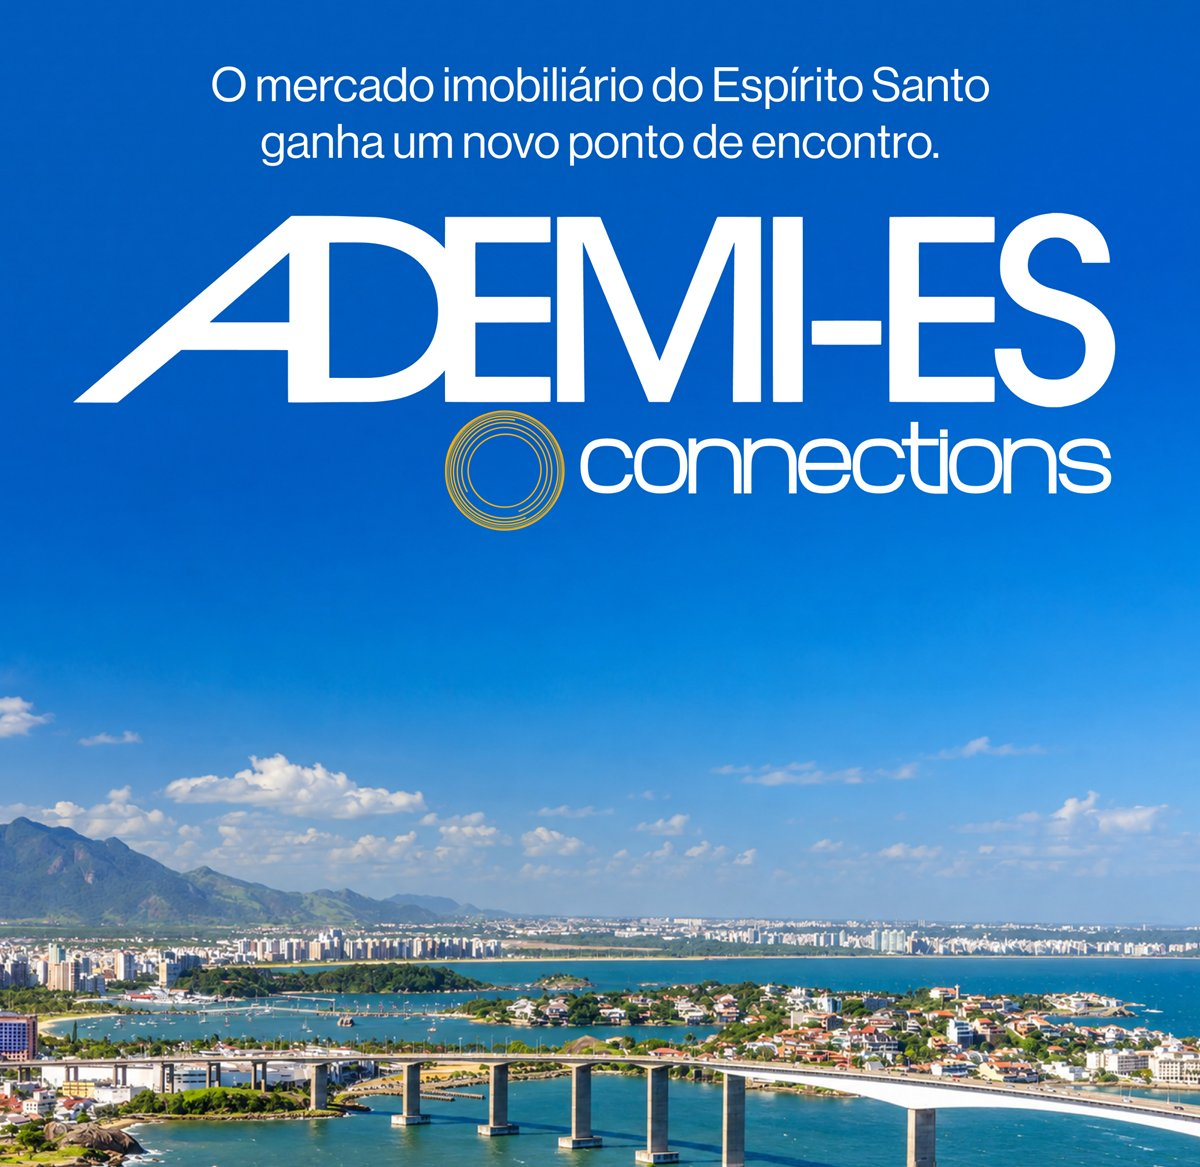
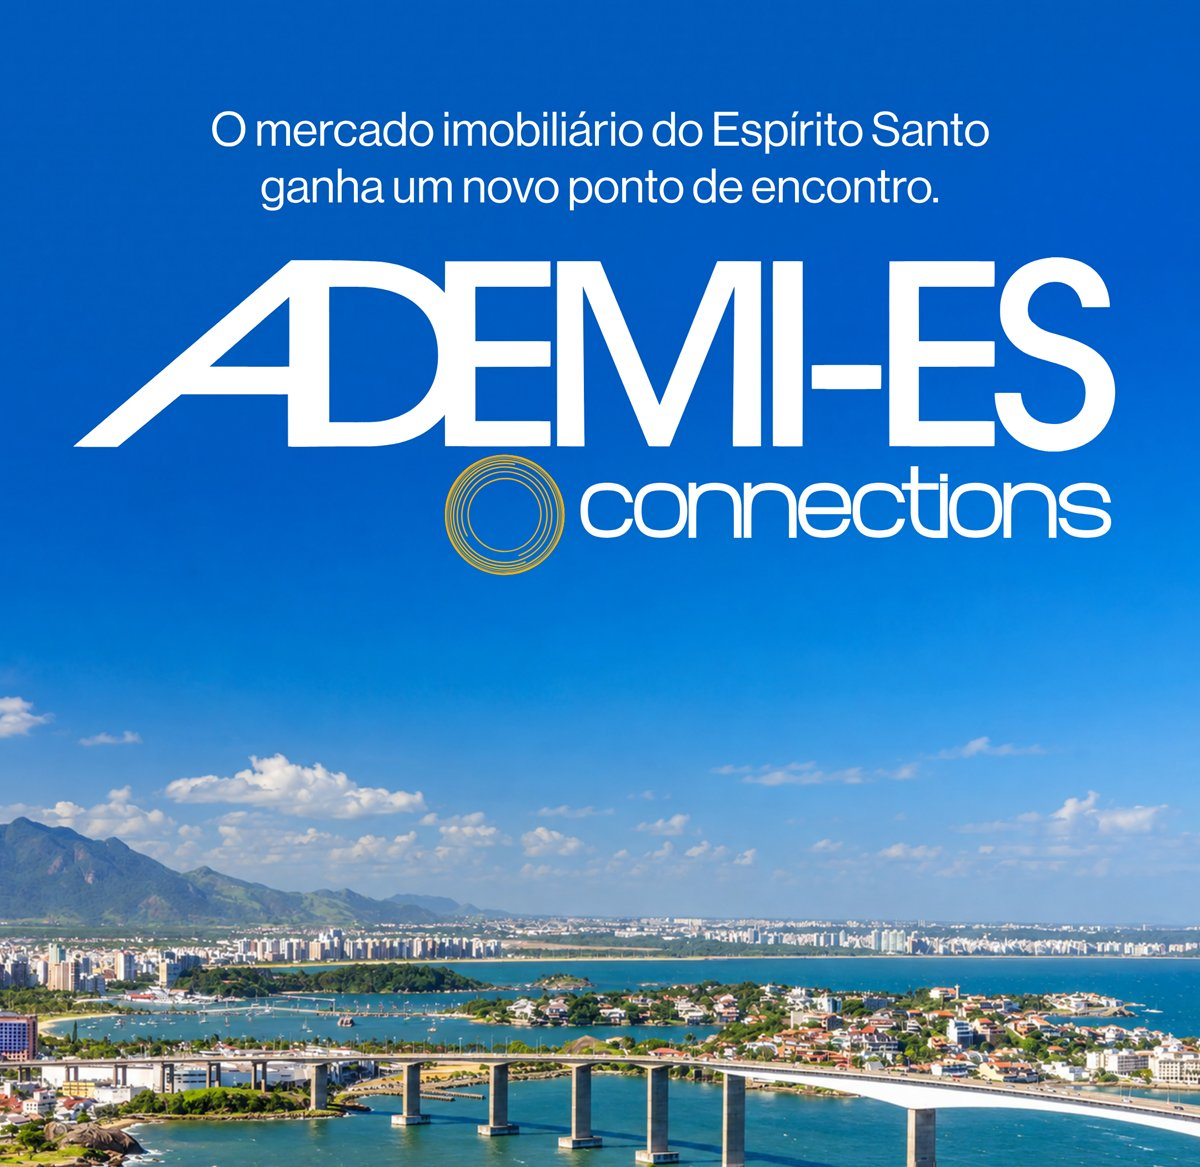
Ajusta layout do e-mail de convite do Ademi-ES Connections
- KV: frase e assinatura Ademi-ES Connections 40px mais para baixo,
  recompostas a partir da foto original e dos vetores do Figma
- KV e faixa de logos SQUAD & Ademi-ES em boxes com cantos de 16px
  e 20px de margem nas laterais
- Fechamento (frase, pílulas de data e local, despedida) centralizado

Changed region(s): [[0.0617, 0.0308, 0.9558, 0.4936]]

diff --git a/ademi-es-01-convite.html b/ademi-es-01-convite.html
@@ -81,9 +81,10 @@
 
           <!-- ============ KV ============ -->
           <tr>
-            <td align="center" bgcolor="#005CBC" style="padding:0; font-size:0; line-height:0; background-color:#005CBC;">
-              <!-- 1200x1167 @2x. Card 1 do carrossel: assinatura Ademi-ES Connections sobre a Terceira Ponte, em Vitória. -->
-              <img class="ad-kv" src="https://raw.githubusercontent.com/beatinyx/emails-connections/main/img/kv-ademi-es.jpg" width="600" height="584" alt="Ademi-ES Connections. O mercado imobiliário do Espírito Santo ganha um novo ponto de encontro. Vista de Vitória com a Terceira Ponte." style="display:block; width:600px; max-width:100%; height:auto; border:0;" />
+            <td align="center" style="padding:20px 20px 0 20px; font-size:0; line-height:0;">
+              <!-- 1200x1167, exibido a 560px: box com cantos arredondados e 20px de margem (igual à faixa de logos).
+                   Card 1 do carrossel: assinatura Ademi-ES Connections sobre a Terceira Ponte, em Vitória. -->
+              <img class="ad-kv" src="https://raw.githubusercontent.com/beatinyx/emails-connections/main/img/kv-ademi-es.jpg" width="560" height="545" alt="Ademi-ES Connections. O mercado imobiliário do Espírito Santo ganha um novo ponto de encontro. Vista de Vitória com a Terceira Ponte." style="display:block; width:560px; max-width:100%; height:auto; border:0; border-radius:16px; background-color:#005CBC;" />
             </td>
           </tr>
 
@@ -249,10 +250,10 @@
           </tr>
 
           <tr>
-            <td class="ad-gutter" align="left" style="padding:40px 48px 0 48px;">
+            <td class="ad-gutter" align="center" style="padding:40px 48px 0 48px;">
               <table role="presentation" width="100%" cellpadding="0" cellspacing="0" border="0">
                 <tr>
-                  <td class="ad-lead" style="font-size:24px; line-height:32px; letter-spacing:-0.01em; color:#000000; font-weight:300;">
+                  <td class="ad-lead" align="center" style="font-size:24px; line-height:32px; letter-spacing:-0.01em; color:#000000; font-weight:300; text-align:center;">
                     Será uma honra receber você para compartilharmos ideias e <strong style="font-weight:700;">construirmos juntos o futuro do&nbsp;setor.</strong>
                   </td>
                 </tr>
@@ -262,10 +263,10 @@
 
           <!-- Pílulas de serviço (estilo das tags do carrossel: contorno azul + círculo azul) -->
           <tr>
-            <td class="ad-gutter" align="left" style="padding:28px 48px 0 48px;">
+            <td class="ad-gutter" align="center" style="padding:28px 48px 0 48px;">
 
               <!-- Data -->
-              <table role="presentation" class="ad-pill" cellpadding="0" cellspacing="0" border="0" style="border-collapse:separate !important; border:2px solid #0154A6; border-radius:999px;">
+              <table role="presentation" class="ad-pill" align="center" cellpadding="0" cellspacing="0" border="0" style="margin:0 auto; border-collapse:separate !important; border:2px solid #0154A6; border-radius:999px;">
                 <tr>
                   <td valign="middle" style="padding:6px 0 6px 6px; font-size:0; line-height:0;">
                     <img src="https://raw.githubusercontent.com/beatinyx/emails-connections/main/img/icon-ademi-data.png" width="40" height="40" alt="" style="display:block; width:40px; height:40px; border:0;" />
@@ -281,7 +282,7 @@
               </table>
 
               <!-- Local -->
-              <table role="presentation" class="ad-pill" cellpadding="0" cellspacing="0" border="0" style="border-collapse:separate !important; border:2px solid #0154A6; border-radius:999px;">
+              <table role="presentation" class="ad-pill" align="center" cellpadding="0" cellspacing="0" border="0" style="margin:0 auto; border-collapse:separate !important; border:2px solid #0154A6; border-radius:999px;">
                 <tr>
                   <td valign="middle" style="padding:6px 0 6px 6px; font-size:0; line-height:0;">
                     <img src="https://raw.githubusercontent.com/beatinyx/emails-connections/main/img/icon-ademi-local.png" width="40" height="40" alt="" style="display:block; width:40px; height:40px; border:0;" />
@@ -296,10 +297,10 @@
           </tr>
 
           <tr>
-            <td class="ad-gutter" align="left" style="padding:40px 48px 48px 48px;">
+            <td class="ad-gutter" align="center" style="padding:40px 48px 48px 48px;">
               <table role="presentation" width="100%" cellpadding="0" cellspacing="0" border="0">
                 <tr>
-                  <td style="font-size:24px; line-height:32px; letter-spacing:-0.01em; color:#000000; font-weight:300;">
+                  <td align="center" style="font-size:24px; line-height:32px; letter-spacing:-0.01em; color:#000000; font-weight:300; text-align:center;">
                     Nos vemos em breve,
                   </td>
                 </tr>
@@ -308,10 +309,17 @@
           </tr>
 
           <!-- ============ ASSINATURA: SQUAD & ADEMI-ES ============ -->
+          <!-- Box azul com cantos arredondados e 20px de margem nas laterais -->
           <tr>
-            <td align="center" bgcolor="#0154A6" style="padding:40px 24px; background-color:#0154A6;">
-              <!-- 720x99 @2x, logos brancos sobre transparente (Card 5 do carrossel) -->
-              <img class="ad-logos" src="https://raw.githubusercontent.com/beatinyx/emails-connections/main/img/logos-squad-ademi-es.png" width="360" height="50" alt="SQUAD Realty &amp; Ademi-ES" style="display:block; width:360px; max-width:100%; height:auto; border:0;" />
+            <td align="center" style="padding:0 20px;">
+              <table role="presentation" width="100%" cellpadding="0" cellspacing="0" border="0" bgcolor="#0154A6" style="border-collapse:separate !important; background-color:#0154A6; border-radius:16px;">
+                <tr>
+                  <td align="center" style="padding:40px 24px;">
+                    <!-- 720x99 @2x, logos brancos sobre transparente (Card 5 do carrossel) -->
+                    <img class="ad-logos" src="https://raw.githubusercontent.com/beatinyx/emails-connections/main/img/logos-squad-ademi-es.png" width="360" height="50" alt="SQUAD Realty &amp; Ademi-ES" style="display:block; width:360px; max-width:100%; height:auto; border:0;" />
+                  </td>
+                </tr>
+              </table>
             </td>
           </tr>
 
